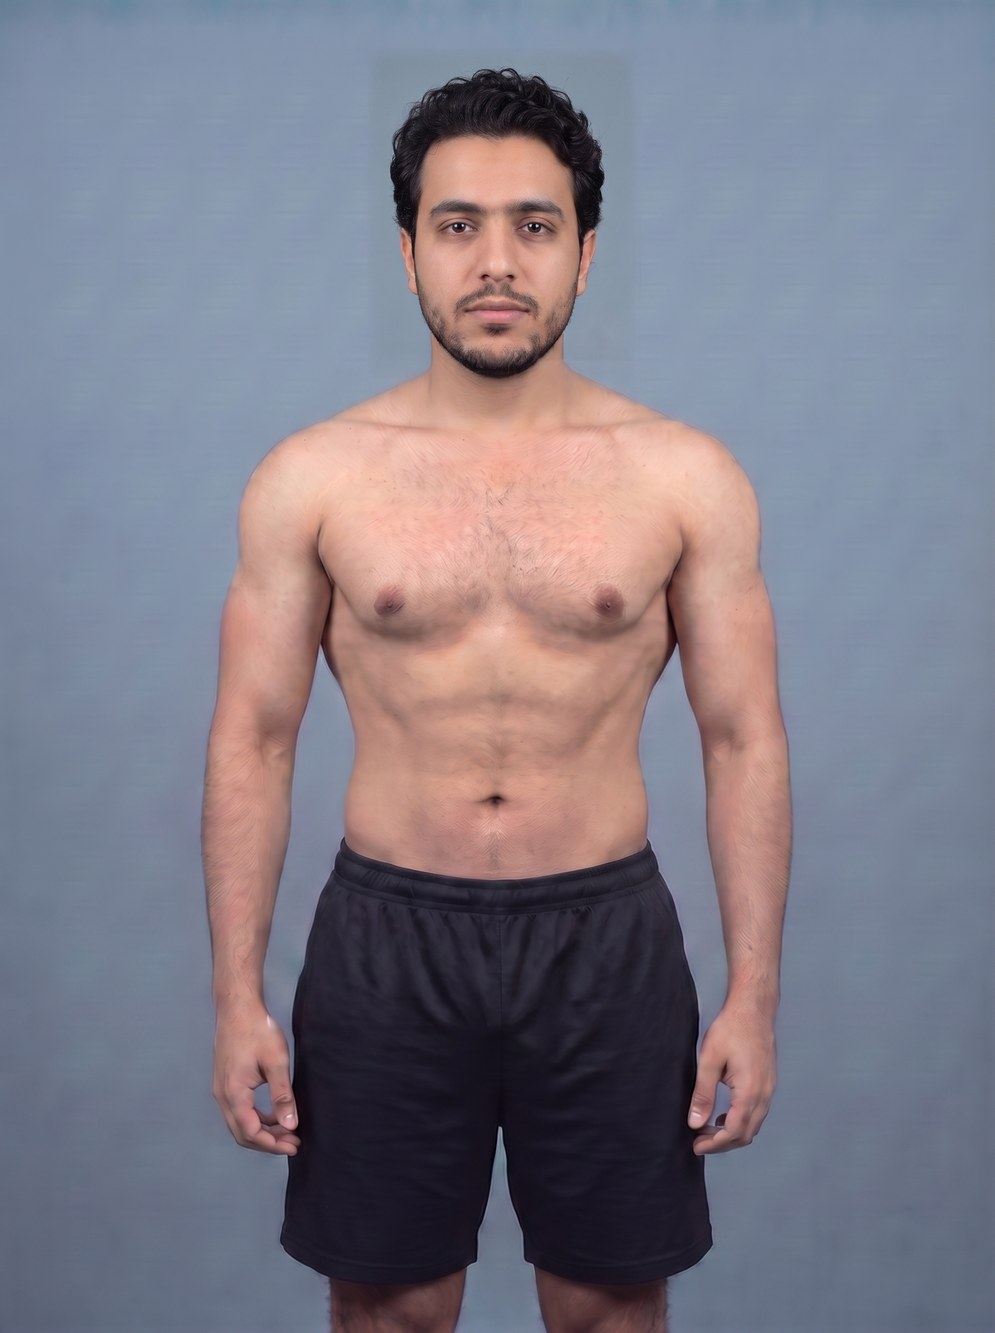
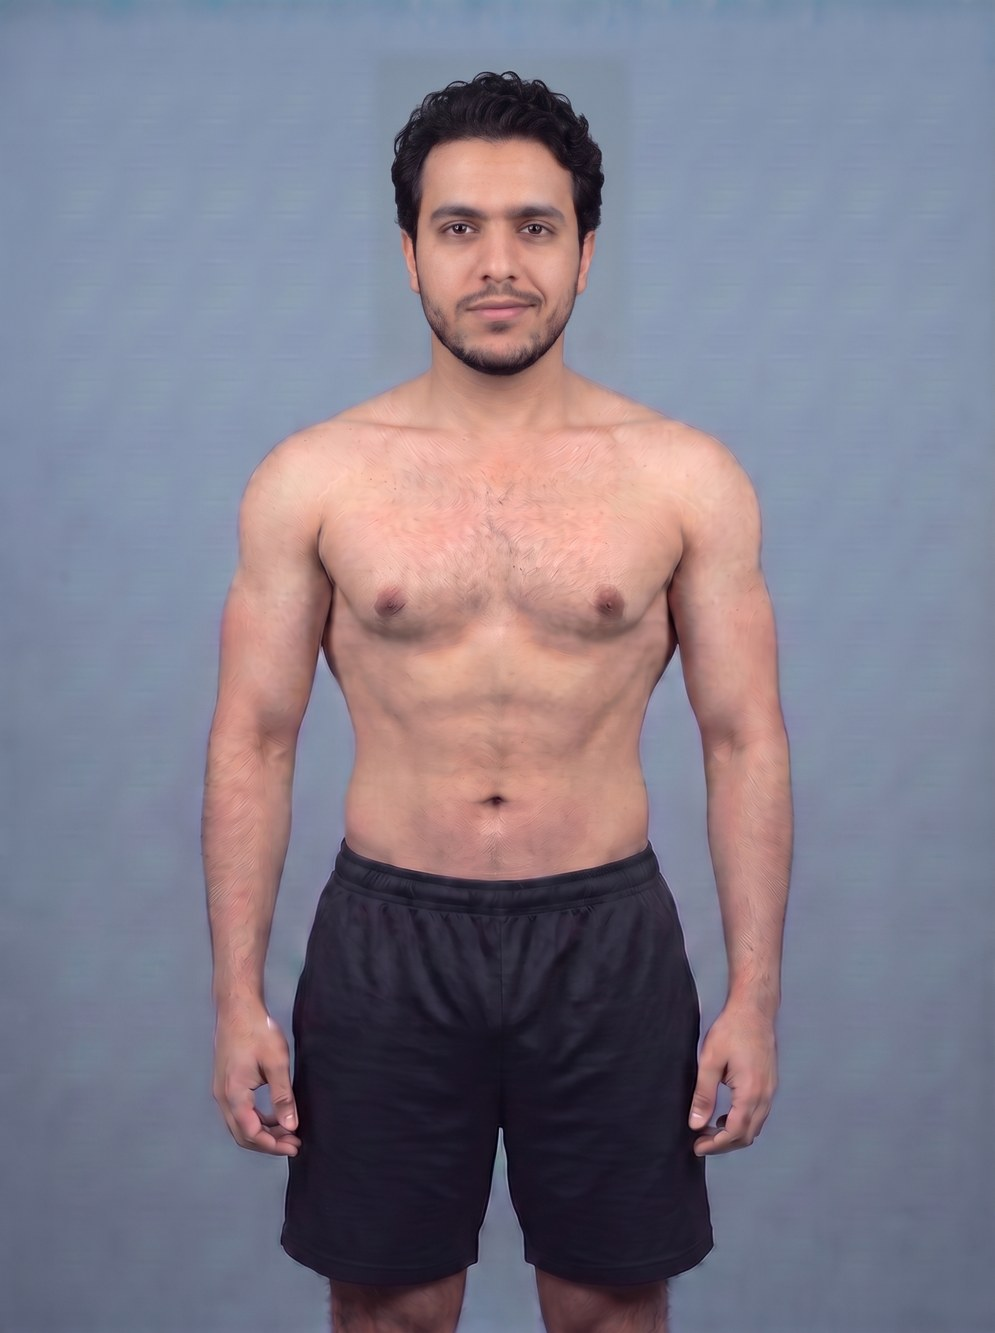
Sample after: subtle smirk; body front matches final face
Claude-Session: https://claude.ai/code/session_01YK5LfND9fHzJNnxfHhhsd1

diff --git a/app/src/lib/plan.ts b/app/src/lib/plan.ts
@@ -776,7 +776,7 @@ export function hairAdvice(intake: Intake, shape: string | null) {
  * paler skin, drooping mouth corners, rated sadder and less attractive).
  */
 export const PRESENCE =
-  "Overall the after must read as the sharper, healthier, well-rested version of the same man, not a copy of the baseline with a new haircut: alert, focused gaze with upper eyelids open (not heavy or hooded-looking from fatigue), clear eye whites, no under-eye shadows or puffiness; brows level and relaxed (no raised inner brows or worried angle), groomed; clear bright whites with natural catchlights; mouth corners neutral, not drooping; head held level with a long neck and shoulders back; healthy, warm, even skin colour (same skin tone); defined facial planes from fat loss — visible hollow under the cheekbones, crisp jawline and a clean chin-to-neck angle. Eyelid position and expression are NOT identity — only eye spacing, eye width and iris colour are locked; lift drooping upper lids so the eyes look awake. Expression: confident, focused gaze — brows straight and level (inner ends never raised), upper lids firm and awake, lower lids gently tightened in a slight confident squint, sharp bright eyes, direct gaze into the lens, mouth neutral with at most a hint of a smirk — never sleepy, sad or blank.";
+  "Overall the after must read as the sharper, healthier, well-rested version of the same man, not a copy of the baseline with a new haircut: alert, focused gaze with upper eyelids open (not heavy or hooded-looking from fatigue), clear eye whites, no under-eye shadows or puffiness; brows level and relaxed (no raised inner brows or worried angle), groomed; clear bright whites with natural catchlights; mouth corners neutral, not drooping; head held level with a long neck and shoulders back; healthy, warm, even skin colour (same skin tone); defined facial planes from fat loss — visible hollow under the cheekbones, crisp jawline and a clean chin-to-neck angle. Eyelid position and expression are NOT identity — only eye spacing, eye width and iris colour are locked; lift drooping upper lids so the eyes look awake. Expression: confident, focused gaze — brows straight and level (inner ends never raised), upper lids firm and awake, lower lids gently tightened in a slight confident squint, sharp bright eyes, direct gaze into the lens, a very subtle confident one-sided smirk, lips closed — never sleepy, sad or blank.";
 
 export function afterPrompt(plan: Plan, intake: Intake): string {
   const changes = plan.items.filter((i) => i.visual).map((i, n) => `${n + 1}) ${i.visual}`);
